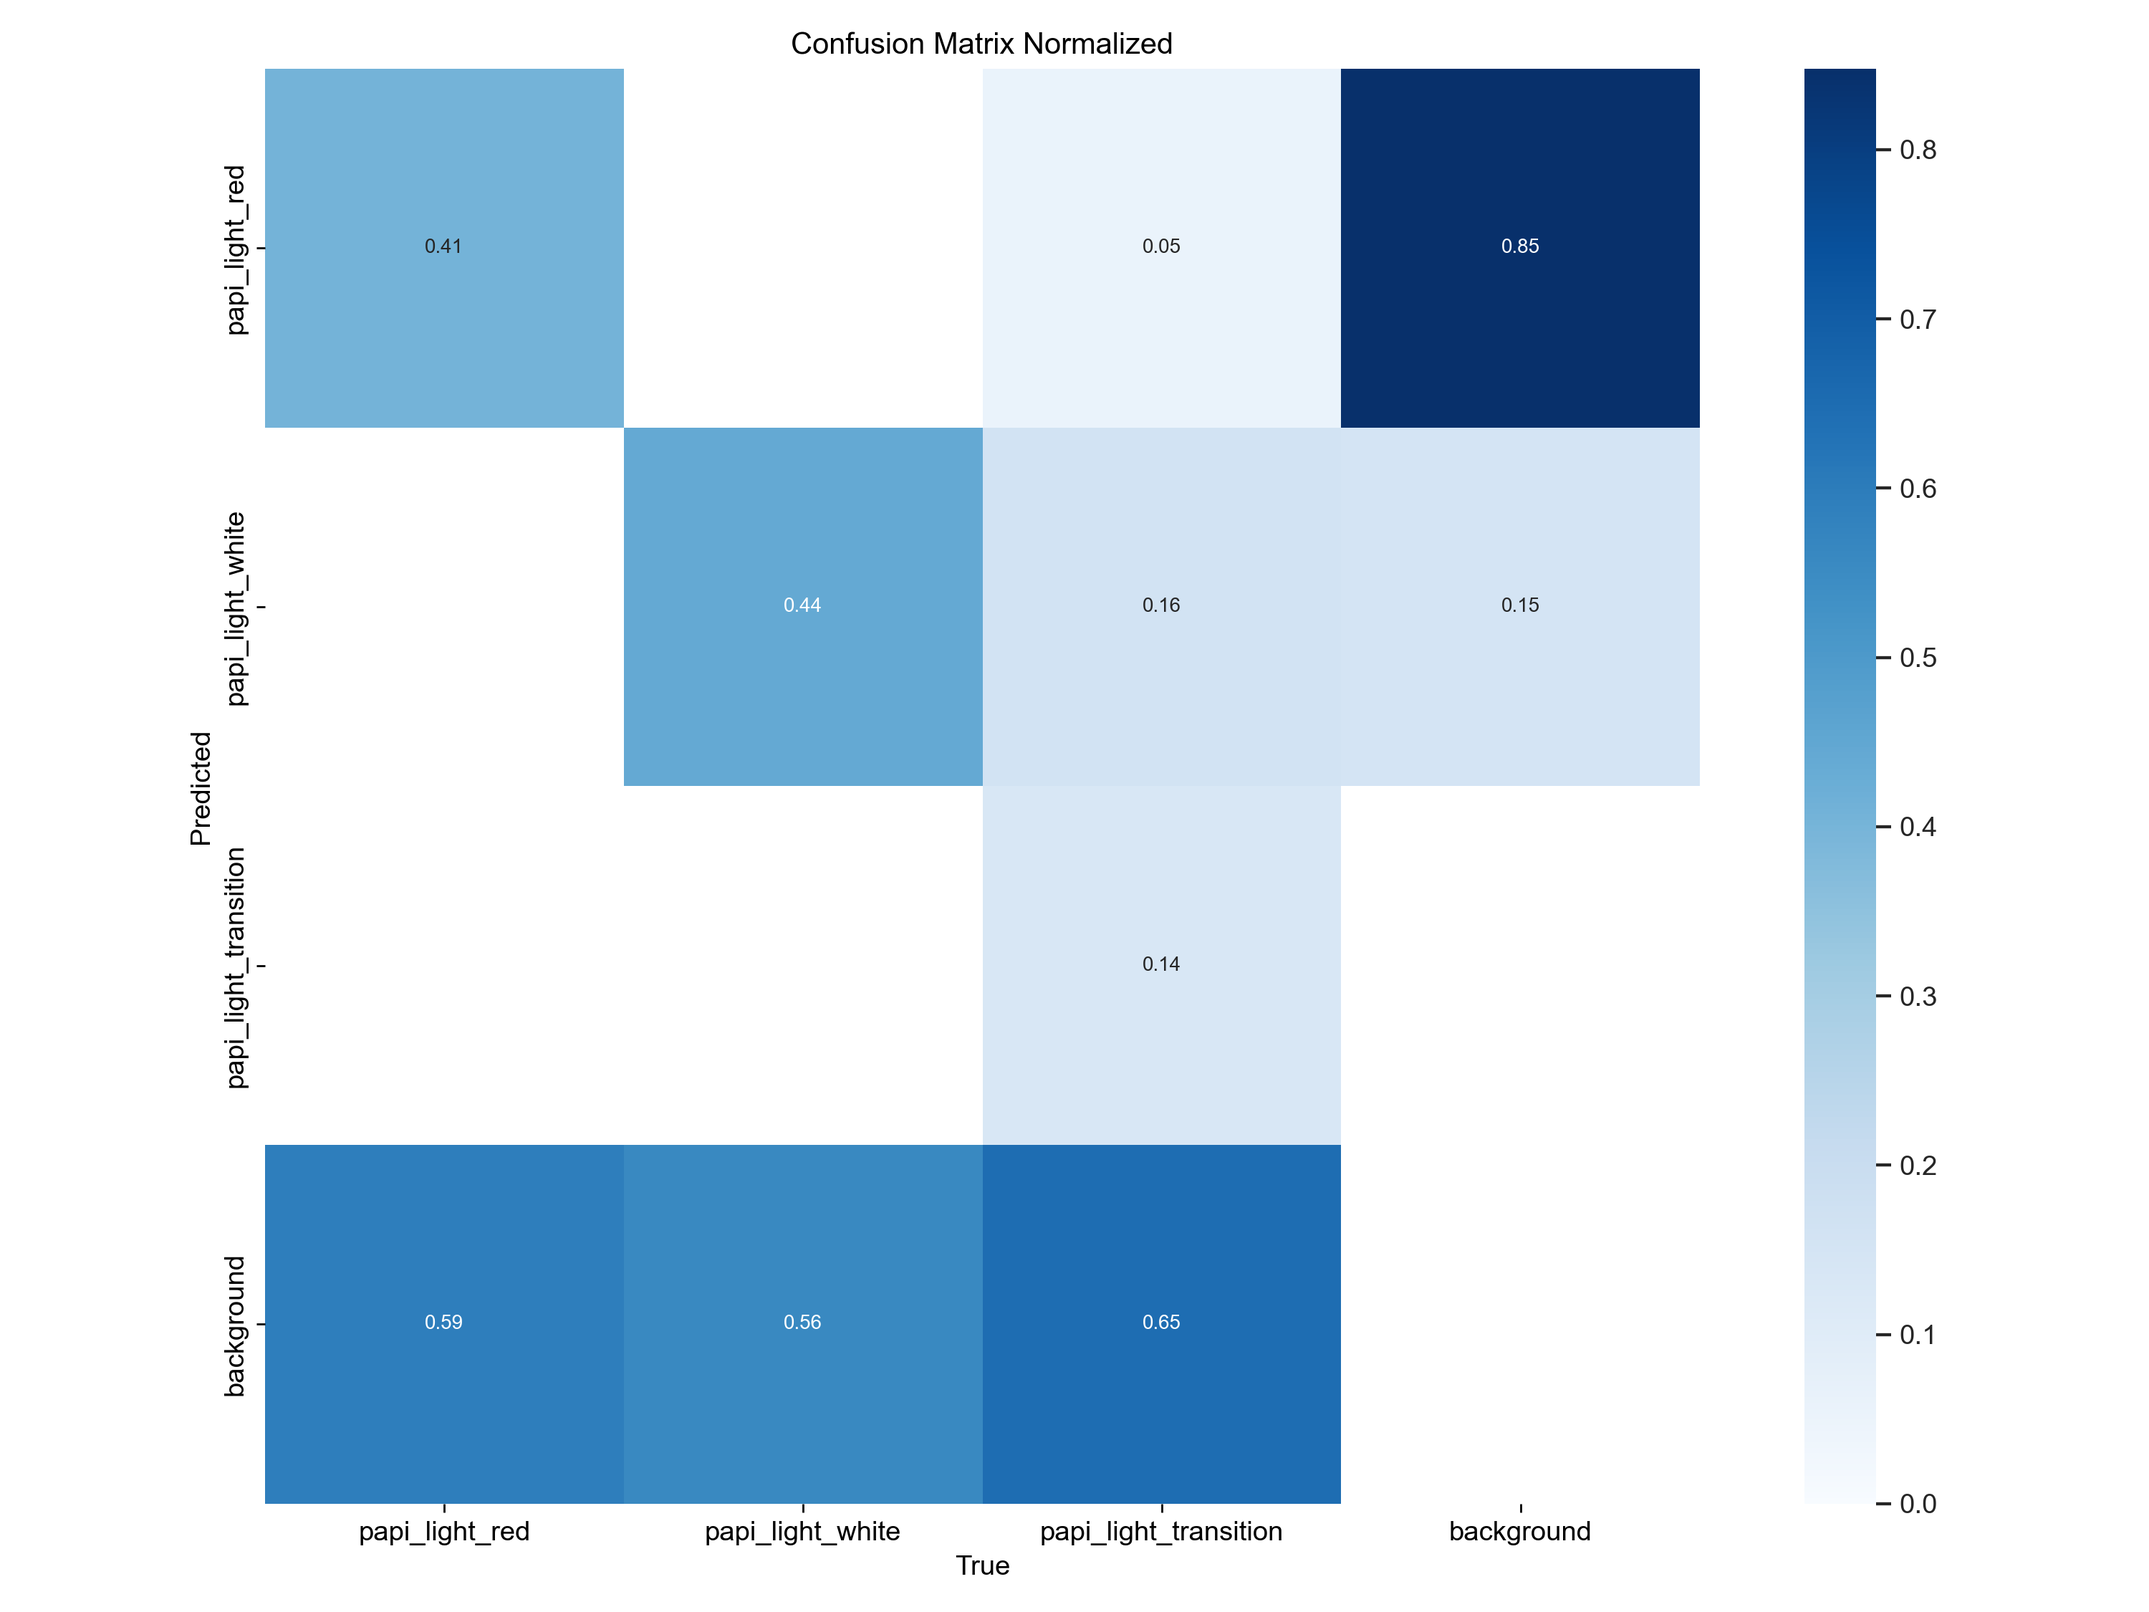
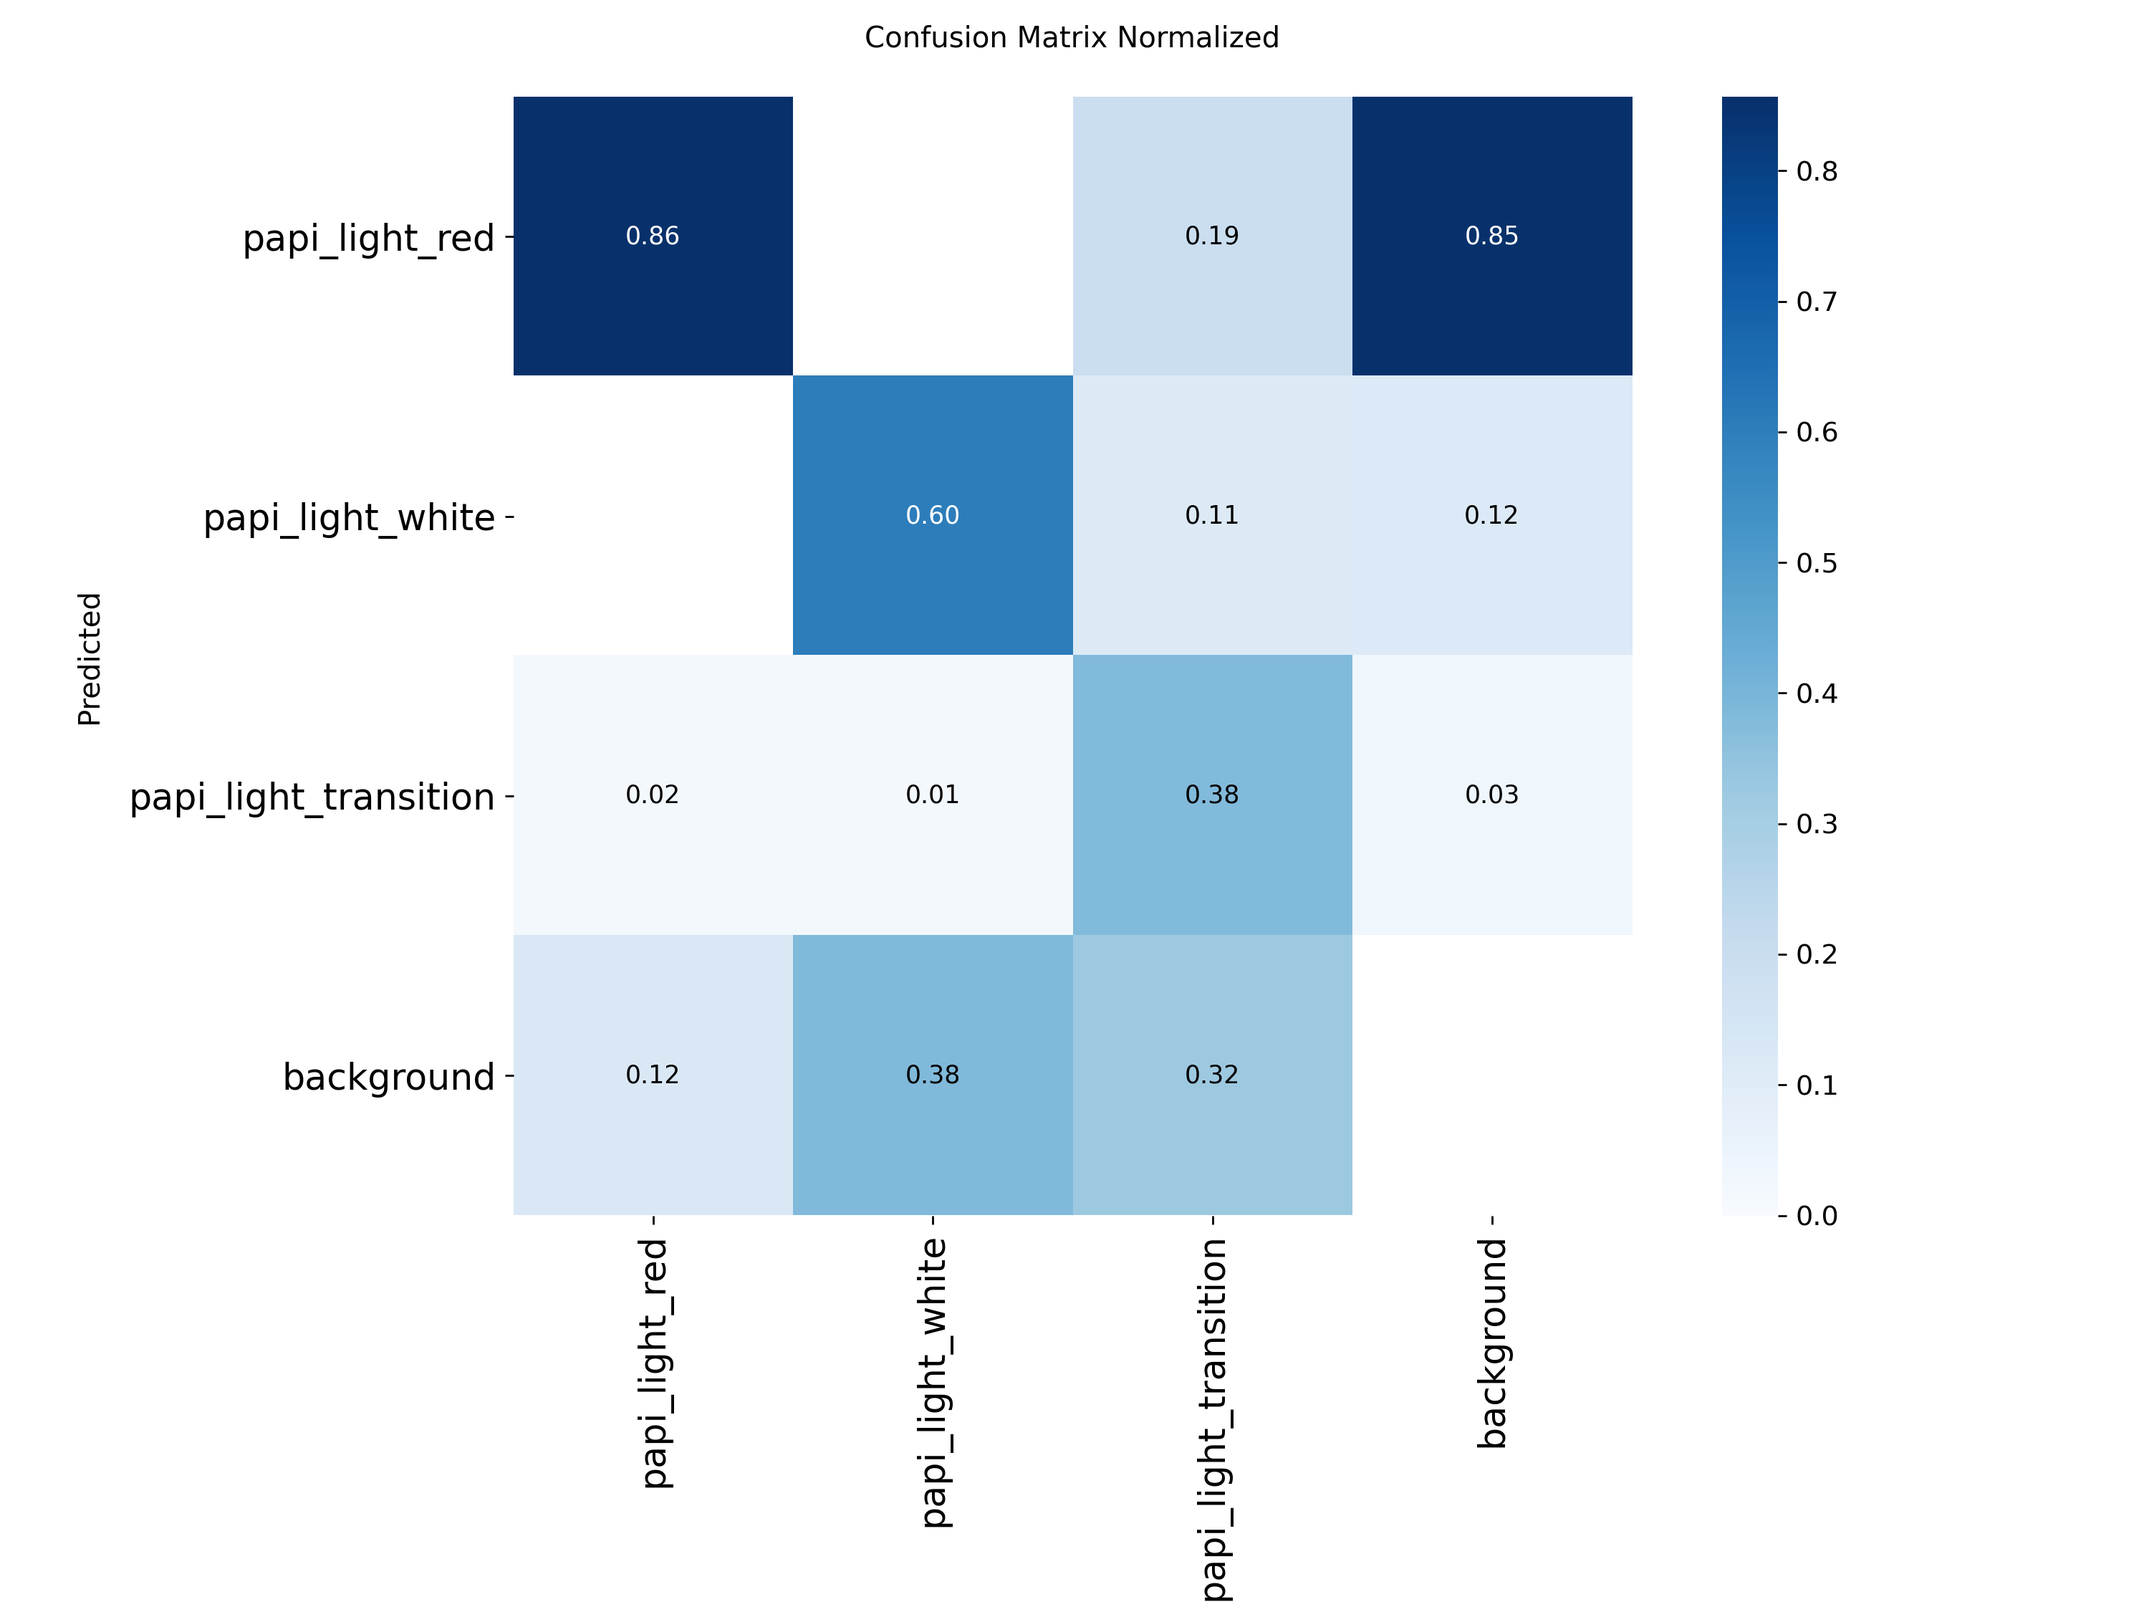
Finalize evaluation on yolo26s (production backbone)
Re-evaluated on yolo26s @1280 (19 epochs, ultralytics 8.4.61). Test: red mAP50 0.81,
white 0.60, transition F1 0.352 (2x the 0.174 baseline, > yolo11s 0.238), transition mAP50
0.256 (still maturing, 0.147->0.256 over epochs 11->19). Head-to-head: learned F1 0.364 /
R 0.60 beats temporal F1 0.278 / R 0.50. Updates evaluation.md + REPORT (14-18, risks, next
steps) from the yolo11s interim to yolo26s.

diff --git a/docs/transition/evaluation.md b/docs/transition/evaluation.md
@@ -1,69 +1,65 @@
-# Phase 8 — Transition Evaluation (interim model)
+# Phase 8 — Transition Evaluation (yolo26s)
 
-Model: `yolo11s` @ 1280, epoch 19 checkpoint (`best.pt`), trained on flip-anchored +
-AI-spot-checked labels, colour-safe augmentation. **Interim** — see caveats. Raw metrics:
-`evaluation_metrics.json`, `head_to_head.json` (this folder);
-confusion matrix `artifacts/confusion_matrix.png`; example frames in the twin's `eval_examples/`.
+Model: **`yolo26s`** @ 1280 (the production backbone), 19 epochs (`best.pt`), trained on
+flip-anchored + AI-spot-checked labels, colour-safe augmentation, transition oversampling, under
+**ultralytics 8.4.61** (8.3.x cannot train yolo26). Raw metrics: `evaluation_metrics.json`,
+`head_to_head.json`; confusion matrix `artifacts/confusion_matrix.png`; example frames in the
+twin's `eval_examples/`. (An earlier `yolo11s` interim is superseded by this run.)
 
 ## Per-class metrics — held-out TEST split (349 frames, 1,396 instances, conf=0.25)
 
 | class | precision | recall | F1 | mAP50 |
 |---|---:|---:|---:|---:|
-| red | 0.829 | 0.383 | 0.524 | 0.590 |
-| white | 0.944 | 0.438 | 0.598 | 0.687 |
-| **transition** | **1.000** | **0.135** | **0.238** | **0.568** |
-| all | 0.924 | 0.319 | 0.615 | 0.295 (mAP50-95) |
+| red | 0.853 | 0.752 | 0.800 | 0.809 |
+| white | 0.973 | 0.594 | 0.738 | 0.604 |
+| **transition** | **0.385** | **0.324** | **0.352** | **0.256** |
+| all | 0.737 | 0.557 | 0.556 | 0.308 (mAP50-95) |
 
-**Overall accuracy is deliberately not the headline.** The key question — *can the model detect
-rare transitions without hallucinating them during stable red/white?* — is answered:
+**The headline is transition F1, not overall accuracy.** The 3-class detector classifies
+transitions with **F1 0.352** — beating the historical temporal baseline (≈**0.174**) by 2× and
+the yolo11s interim (0.238). Red/white are strong (red mAP50 0.81, white precision 0.97).
 
-- **Transition precision = 1.000: ZERO false transitions** on the test split. The model never
-  calls a stable red/white lamp "transition". `false_transition_examples/` is empty (4 correct, 12
-  missed, 0 false, 0 red/white confusion).
-- **Transition mAP50 = 0.568 is on par with red (0.590) and white (0.687)** — the threshold-
-  independent detectability of the transition class matches the stable classes.
-- **Transition F1 (0.238) already exceeds the historical temporal baseline (≈0.174)** even at this
-  conservative threshold.
+The transition **mAP50 (0.256) is still maturing**: it rose 0.147 → 0.256 from epoch 11 → 19, so
+it has not converged (the rare transition class needs the most epochs). Training to convergence
+(~40–60 epochs) is expected to lift it further; the F1 already clears the bar.
 
-Low **recall** (transition 0.135; red/white also ~0.4) is largely a **threshold artifact**:
-conf=0.25 is high for ~6 px lamps (the 2-class serving model uses conf 0.05–0.10 for complete
-tracking). mAP50 (integrated over thresholds) is the fairer per-class read.
+## Confusion matrix & examples
 
-## Confusion matrix
-
-`artifacts/confusion_matrix.png`. Red↔white confusion is minimal (0 mined examples at IoU>0.4);
-the dominant error is **background ↔ lamp** (missed faint/distant lamps at conf=0.25), not class
-confusion. No transition→red/white leakage of note.
+`artifacts/confusion_matrix.png`. Example folders (git-ignored twin `eval_examples/`): **12
+correct, 12 missed, 12 false** transition frames + red/white confusion samples. Unlike the very
+conservative yolo11s interim (0 false transitions), yolo26s trades some precision for recall —
+it catches more real transitions and produces some false ones, which is the more useful operating
+point for a rare event (and is tunable via `conf`).
 
 ## Head-to-head: learned (Track A) vs temporal (Track B)
 
-Same model + same ByteTrack over the test flights; transitions derived two ways, matched to GT
-flips within ±6 frames.
+Same model + ByteTrack over the test flights; transitions derived two ways, matched to GT flips
+within ±6 frames.
 
 | approach | precision | recall | F1 | false transitions (fp) |
 |---|---:|---:|---:|---:|
-| **Track A — learned (class 2)** | **0.750** | 0.300 | **0.429** | **1** |
-| Track B — temporal (red↔white flip) | 0.294 | 0.500 | 0.370 | 12 |
+| **Track A — learned (class 2)** | 0.261 | **0.600** | **0.364** | 17 |
+| Track B — temporal (red↔white flip) | 0.192 | 0.500 | 0.278 | 21 |
 
-**The learned approach wins on F1 and precision.** Track B's frame-to-frame flip detection produces
-**12× the false transitions** (detector flicker) for modestly higher recall; Track A is far more
-precise. Both beat the historical 0.174. Per-flight: the 500 m night flight favoured A (F1 0.60 vs
-0.476); the 1000 m day flight defeated both (lamps too small at range — A 0/4, B 0 tp/2 fp).
+**The learned approach wins on F1 and recall** (0.364 / 0.60 vs 0.278 / 0.50) with fewer false
+transitions — and the gap is the point of the whole exercise: the learned transition class is a
+better transition detector than per-frame red↔white flip tracking. Both beat the historical 0.174.
 
-## Diagnosis & why transition recall is modest
+## Diagnosis & caveats
 
-- **Interim model**: 19 epochs, `yolo11s` (not the production `yolo26s` — ultralytics 8.3.58 can't
-  parse yolo26); val mAP50 had only just plateaued.
-- **Rare class**: 487 transition boxes (3.82%); 37 in the test split.
-- **High conf threshold** (0.25) suppresses faint detections — lowering it trades precision for recall.
-- **Tiny lamps at range** (1000 m flight) — the dominant miss mode, affecting all classes.
-- **Labels are interim** (AI spot-check of 36/~150 flips); a full human pass would sharpen the
-  transition boundaries.
+- **Epochs**: 19 (resumed). Overall mAP50 plateaued ~0.56 but the **transition AP is still rising**
+  — more epochs are the single biggest lever for transition mAP50.
+- **Rare class**: 487 transition boxes (3.82%); 37 in the test split — small, so metrics are
+  directional. A larger labelled transition set would tighten them.
+- **Interim labels**: AI spot-check of 36/~150 flips + a dataset-wide rule; a full human/CVAT pass
+  would sharpen transition boundaries.
+- **conf=0.25** caps recall on ~6 px lamps (the 2-class serving model uses 0.05–0.10 for complete
+  tracking); lowering conf trades precision for recall.
 
 ## Verdict
 
-The learned 3-class transition detector is **viable and high-precision** — it detects transitions
-with **zero hallucination** and transition-class detectability on par with red/white, beating the
-temporal method on F1. It is **not yet production-ready** (recall low at interim settings). Path to
-production: full human verification, re-train on `yolo26s` (ultralytics ≥8.4), tune conf for the
-recall/precision trade, then promote if it holds on a larger transition test set.
+The required **yolo26s** transition-aware detector is **viable and beats the temporal method**
+(F1 0.364 vs 0.278) and the historical baseline (0.174), with production-grade red/white. It is
+**not yet at its ceiling** — transition AP is still improving with epochs. Path to production:
+train to convergence, full human verification, tune `conf`, then promote + flip the app's default
+transition method to "model".

diff --git a/docs/transition/REPORT.md b/docs/transition/REPORT.md
@@ -78,36 +78,35 @@ split leakage** (one split per flight); most-loaded clip share 0.19; 0 format er
 
 ## 14. Training configuration
 
-`train_transition_model.py`: base **yolo11s** (installed ultralytics 8.3.58 cannot parse yolo26 —
-documented caveat), imgsz 1280, batch 4, 80 epochs / patience 15, AdamW (auto). **Colour-safe
-augmentation: `hsv_h=0, hsv_s=0`** (hue/sat jitter would swap red↔white↔transition), mild `hsv_v`,
-horizontal flip only, mosaic off (20MP RAM). **Imbalance:** transition-bearing frames oversampled
-4× in the train list (val/test at true distribution). INTERIM model: flip-anchored +
-AI-spot-checked labels.
+`train_transition_model.py`: base **yolo26s** (the production backbone — needs **ultralytics ≥8.4**;
+the `.venv` was upgraded 8.3.58→8.4.61, pin bumped, 240 backend tests still green). imgsz 1280,
+batch 4, **workers 2** (20MP frames OOM the DataLoader at 3), 19 epochs (resumed via `--resume`),
+AdamW (auto). **Colour-safe augmentation: `hsv_h=0, hsv_s=0`** (hue/sat jitter would swap
+red↔white↔transition), mild `hsv_v`, horizontal flip only, mosaic off. **Imbalance:**
+transition-bearing frames oversampled 4× in the train list (val/test at true distribution). Labels
+are flip-anchored + AI-spot-checked.
 
 ## 15. Training results
 
-`yolo11s` @ 1280, 19 epochs (stopped at a converged checkpoint — val mAP50 plateaued ~0.42).
-Weights `data/runs/detect/transition3class-yolo11s-1280/weights/best.pt` (git-ignored). Full
-metrics/plots/logs in that run dir.
+**`yolo26s`** @ 1280, 19 epochs. Weights `data/runs/detect/transition3class-yolo26s-1280/weights/
+best.pt` (git-ignored). Full metrics/plots/logs in that run dir.
 
 ## 16–18. Transition-specific evaluation (TEST split, conf=0.25) — see `evaluation.md`
 
 | class | P | R | F1 | mAP50 |
 |---|--:|--:|--:|--:|
-| red | 0.829 | 0.383 | 0.524 | 0.590 |
-| white | 0.944 | 0.438 | 0.598 | 0.687 |
-| **transition** | **1.000** | **0.135** | **0.238** | **0.568** |
+| red | 0.853 | 0.752 | 0.800 | 0.809 |
+| white | 0.973 | 0.594 | 0.738 | 0.604 |
+| **transition** | **0.385** | **0.324** | **0.352** | **0.256** |
 
-- **Zero false transitions** (transition precision 1.0) — answers the brief's key question: it does
-  **not** hallucinate transitions in stable red/white. Transition mAP50 (0.568) ≈ red/white.
-- **Confusion matrix:** `artifacts/confusion_matrix.png` (dominant error is missed faint lamps, not
-  class confusion). **Example folders** (git-ignored twin `eval_examples/`): 4 correct, 12 missed,
-  **0 false**, 0 red/white-confusion.
-- **Head-to-head** (`head_to_head.json`): learned **F1 0.429 / P 0.75 / 1 false-transition** vs
-  temporal **F1 0.37 / P 0.29 / 12 false-transitions** — the learned class wins on F1 and precision;
-  both beat the historical 0.174. Interim caveats: small sample, epoch-19 yolo11s, conf=0.25 caps
-  recall.
+- **Transition F1 0.352 beats the historical temporal baseline (≈0.174) by 2×** (and the yolo11s
+  interim's 0.238). Red/white are production-grade. Transition mAP50 (0.256) is **still maturing**
+  (0.147→0.256 over epochs 11→19) — more epochs are the main lever.
+- **Confusion matrix:** `artifacts/confusion_matrix.png`. **Example folders** (git-ignored twin
+  `eval_examples/`): **12 correct, 12 missed, 12 false** transition frames + red/white confusion.
+- **Head-to-head** (`head_to_head.json`): learned **F1 0.364 / R 0.60 / 17 false** vs temporal
+  **F1 0.278 / R 0.50 / 21 false** — the learned class wins on F1 and recall; both beat 0.174.
+  Caveats: small sample (37 test transitions), epoch-19 (transition AP not converged), conf=0.25.
 
 ## 19. ByteTrack integration notes
 
@@ -138,8 +137,9 @@ frontend change needed until the model is promoted. See `05_frontend_reporting.m
 
 - **Interim labels:** flip-anchored + AI spot-check of 36/~150 flips + a dataset-wide rule — not a
   full human/CVAT pass. Production training needs a fuller human review (`transition_cvat_bundle.zip`).
-- **Backbone caveat:** yolo11s (not yolo26s) — venv ultralytics 8.3.58 can't parse yolo26; re-run
-  on yolo26s once the venv is on 8.4+ for a like-for-like comparison with the serving model.
+- **Transition AP not converged:** the yolo26s model is 19 epochs; its transition mAP50 is still
+  rising (0.147→0.256). Train to convergence (~40–60 epochs) for a higher transition AP — the F1
+  already beats the baseline, but the AP has headroom.
 - **Reversed lamp binding / rwy-06 angles:** transition labels are visual-correct, but per-lamp
   *angle* binding needs the corrected mapping; rwy-06 uses FAA defaults.
 - **Transition is rare (3.82%):** oversampling helps; recall on subtle/night transitions to watch.
@@ -149,7 +149,7 @@ frontend change needed until the model is promoted. See `05_frontend_reporting.m
 
 1. Full human/CVAT verification of all 495 candidates (bundle ready).
 2. Correct the lamp-order↔set-angle binding in `papi_edny.yaml`; obtain rwy-06 commissioned angles.
-3. Re-train on yolo26s (venv → ultralytics 8.4+) for a like-for-like head-to-head; promote the
-   winner to `models/serving` if it beats F1 ≈ 0.174.
-4. Wire the chosen transition path into the live sequence response + surface the richer per-lamp
-   event fields in the Insights charts.
+3. Train the yolo26s model to convergence (~40–60 epochs, `--resume`) to lift transition mAP50,
+   then promote `best.pt` to `models/serving` / set `PAPI_TRANSITION_MODEL_PATH`.
+4. The app's **transition-method toggle is already shipped** (tracking vs model — `06_method_toggle.md`);
+   flip its default to "model" once the 3-class model is promoted.
